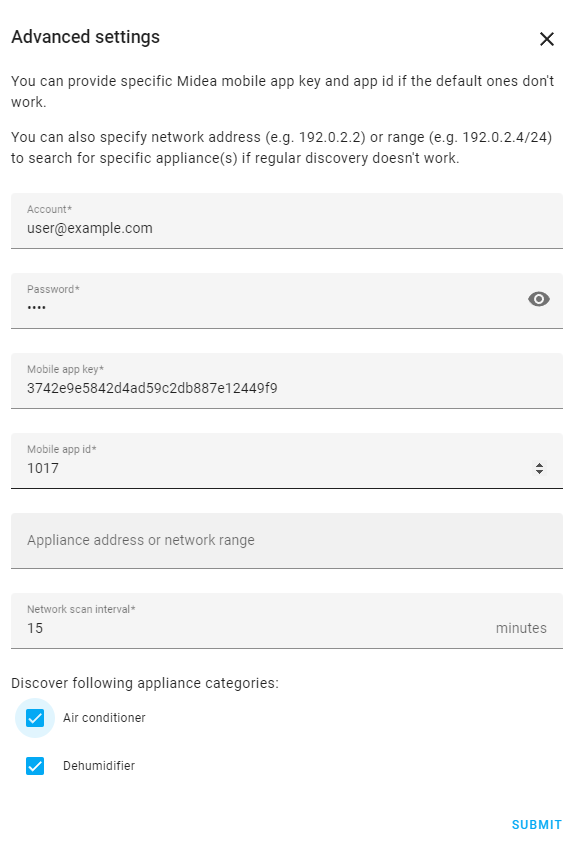
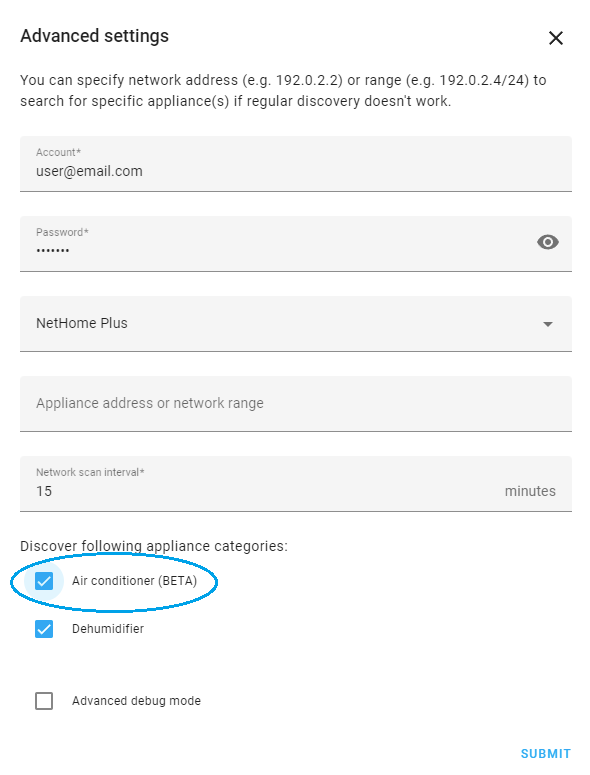
Remove APP ID and APP KEY from configuration. Use APP Name  only.

diff --git a/custom_components/midea_dehumidifier_lan/config_flow.py b/custom_components/midea_dehumidifier_lan/config_flow.py
@@ -43,22 +43,18 @@ from midea_beautiful.exceptions import (
 from midea_beautiful.lan import LanDevice
 from midea_beautiful.midea import (
     APPLIANCE_TYPE_DEHUMIDIFIER,
-    DEFAULT_APP_ID,
-    DEFAULT_APPKEY,
     SUPPORTED_APPS,
 )
 
 from custom_components.midea_dehumidifier_lan import Hub
 from custom_components.midea_dehumidifier_lan.const import (
     NAME,
+    CURRENT_CONFIG_VERSION,
     SUPPORTED_APPLIANCES,
     CONF_ADVANCED_SETTINGS,
-    CONF_APPID,
-    CONF_APPKEY,
     CONF_DEBUG,
     CONF_MOBILE_APP,
     CONF_TOKEN_KEY,
-    CURRENT_CONFIG_VERSION,
     DEFAULT_APP,
     DEFAULT_DISCOVERY_MODE,
     DEFAULT_PASSWORD,
@@ -118,8 +114,7 @@ def _appliance_schema(  # pylint: disable=too-many-arguments
 def _advanced_settings_schema(
     username: str = "",
     password: str = "",
-    appkey: str = "",
-    appid: int = None,
+    app: str = DEFAULT_APP,
     broadcast_address: str = "",
     appliances: list[str] = None,
     debug: bool = False,
@@ -129,8 +124,7 @@ def _advanced_settings_schema(
         {
             vol.Required(CONF_USERNAME, default=username): cv.string,
             vol.Required(CONF_PASSWORD, default=password): cv.string,
-            vol.Required(CONF_APPKEY, default=appkey): cv.string,
-            vol.Required(CONF_APPID, default=appid): cv.positive_int,
+            vol.Optional(CONF_MOBILE_APP, default=app): vol.In(SUPPORTED_APPS.keys()),
             vol.Optional(CONF_BROADCAST_ADDRESS, default=broadcast_address): cv.string,
             vol.Required(
                 CONF_SCAN_INTERVAL,
@@ -150,15 +144,11 @@ def _advanced_settings_schema(
 def _reauth_schema(
     username: str,
     password: str,
-    appkey: str,
-    appid: int,
 ) -> vol.Schema:
     return vol.Schema(
         {
             vol.Required(CONF_USERNAME, default=username): cv.string,
             vol.Required(CONF_PASSWORD, default=password): cv.string,
-            vol.Required(CONF_APPKEY, default=appkey): cv.string,
-            vol.Required(CONF_APPID, default=appid): cv.positive_int,
         }
     )
 
@@ -310,7 +300,6 @@ class _MideaFlow(FlowHandler):
 
         # Remove not used elements
         self.conf.pop(CONF_ADVANCED_SETTINGS, None)
-        self.conf.pop(CONF_MOBILE_APP, None)
         if self.config_entry:
             _LOGGER.debug("Updating configuration data %s", RedactedConf(self.conf))
             self.hass.config_entries.async_update_entry(
@@ -526,16 +515,14 @@ class MideaConfigFlow(ConfigFlow, _MideaFlow, domain=DOMAIN):
 
         if self.advanced_settings:
             assert self.conf is not None
-            self.conf[CONF_APPID] = user_input[CONF_APPID]
-            self.conf[CONF_APPKEY] = user_input[CONF_APPKEY]
+            self.conf[CONF_MOBILE_APP] = user_input.get(CONF_MOBILE_APP, DEFAULT_APP)
             self.conf[CONF_INCLUDE] = user_input[CONF_INCLUDE]
             self.conf[CONF_SCAN_INTERVAL] = user_input[CONF_SCAN_INTERVAL]
             self.conf[CONF_DEBUG] = user_input[CONF_DEBUG]
             self.conf[CONF_BROADCAST_ADDRESS] = _get_broadcast_addresses(user_input)
 
         else:
-            app = user_input.get(CONF_MOBILE_APP, DEFAULT_APP)
-            self.conf |= SUPPORTED_APPS.get(app, SUPPORTED_APPS[DEFAULT_APP])
+            self.conf[CONF_MOBILE_APP] = user_input.get(CONF_MOBILE_APP, DEFAULT_APP)
             if user_input.get(CONF_ADVANCED_SETTINGS):
                 return await self.async_step_advanced_settings()
 
@@ -614,8 +601,7 @@ class MideaConfigFlow(ConfigFlow, _MideaFlow, domain=DOMAIN):
         password = user_input.get(
             CONF_PASSWORD, self.conf.get(CONF_PASSWORD, DEFAULT_PASSWORD)
         )
-        appkey = user_input.get(CONF_APPKEY, DEFAULT_APPKEY)
-        appid = user_input.get(CONF_APPID, DEFAULT_APP_ID)
+        app = user_input.get(CONF_MOBILE_APP, DEFAULT_APP)
         broadcast_addresses = user_input.get(
             CONF_BROADCAST_ADDRESS, ",".join(self.conf.get(CONF_BROADCAST_ADDRESS, []))
         )
@@ -625,8 +611,7 @@ class MideaConfigFlow(ConfigFlow, _MideaFlow, domain=DOMAIN):
             data_schema=_advanced_settings_schema(
                 username=username,
                 password=password,
-                appkey=appkey,
-                appid=appid,
+                app=app,
                 broadcast_address=broadcast_addresses,
             ),
             description_placeholders=self._placeholders(),
@@ -661,14 +646,12 @@ class MideaConfigFlow(ConfigFlow, _MideaFlow, domain=DOMAIN):
         self.errors.clear()
         password = ""
         username = self.conf.get(CONF_USERNAME, "")
-        appkey = self.conf.get(CONF_APPKEY, DEFAULT_APPKEY)
-        appid = self.conf.get(CONF_APPID, DEFAULT_APP_ID)
+        app = self.conf.get(CONF_MOBILE_APP, DEFAULT_APP)
         if user_input is not None:
             extra_conf = {
                 CONF_USERNAME: user_input.get(CONF_USERNAME, ""),
                 CONF_PASSWORD: user_input.get(CONF_PASSWORD, ""),
-                CONF_APPKEY: user_input.get(CONF_APPKEY, appkey),
-                CONF_APPID: user_input.get(CONF_APPID, appid),
+                CONF_MOBILE_APP: user_input.get(CONF_MOBILE_APP, app),
             }
             try:
                 await self.hass.async_add_executor_job(
@@ -679,8 +662,7 @@ class MideaConfigFlow(ConfigFlow, _MideaFlow, domain=DOMAIN):
             else:
                 self.conf[CONF_USERNAME] = username
                 self.conf[CONF_PASSWORD] = password
-                self.conf[CONF_APPKEY] = appkey
-                self.conf[CONF_APPID] = appid
+                self.conf[CONF_MOBILE_APP] = app
                 return await self._async_add_entry()
 
         return self.async_show_form(
@@ -688,8 +670,6 @@ class MideaConfigFlow(ConfigFlow, _MideaFlow, domain=DOMAIN):
             data_schema=_reauth_schema(
                 username=username,
                 password=password,
-                appkey=appkey,
-                appid=appid,
             ),
             description_placeholders=self._placeholders(),
             errors=self.errors,

diff --git a/custom_components/midea_dehumidifier_lan/__init__.py b/custom_components/midea_dehumidifier_lan/__init__.py
@@ -29,14 +29,13 @@ from homeassistant.helpers.entity_registry import async_get_registry
 from midea_beautiful.cloud import MideaCloud
 from midea_beautiful.exceptions import MideaError
 from midea_beautiful.lan import LanDevice
-from midea_beautiful.midea import DEFAULT_APP_ID, DEFAULT_APPKEY
+from midea_beautiful.midea import SUPPORTED_APPS, DEFAULT_APP_ID, DEFAULT_APPKEY
 
 from custom_components.midea_dehumidifier_lan.const import (
-    CONF_APPID,
-    CONF_APPKEY,
+    CONF_MOBILE_APP,
     CONF_TOKEN_KEY,
     CONF_USE_CLOUD_OBSOLETE,
-    CURRENT_CONFIG_VERSION,
+    DEFAULT_APP,
     DEFAULT_TTL,
     DISCOVERY_CLOUD,
     DISCOVERY_IGNORE,
@@ -45,12 +44,14 @@ from custom_components.midea_dehumidifier_lan.const import (
     DOMAIN,
     LOCAL_BROADCAST,
     NAME,
+    CURRENT_CONFIG_VERSION,
+    OBSOLETE_CONF_APPID,
+    OBSOLETE_CONF_APPKEY,
     PLATFORMS,
     UNKNOWN_IP,
 )
 from custom_components.midea_dehumidifier_lan.hub import Hub
 from custom_components.midea_dehumidifier_lan.util import MideaClient, address_ok
-
 
 _LOGGER = logging.getLogger(__name__)
 
@@ -127,15 +128,28 @@ async def async_migrate_entry(hass: HomeAssistant, config_entry: ConfigEntry) ->
         if not old_broadcast:
             old_broadcast = [LOCAL_BROADCAST]
         new_conf = {
-            CONF_APPKEY: old_conf.get(CONF_APPKEY),
-            CONF_APPID: old_conf.get(CONF_APPID),
+            CONF_MOBILE_APP: old_conf.get(CONF_MOBILE_APP),
             CONF_BROADCAST_ADDRESS: old_broadcast,
             CONF_USERNAME: old_conf.get(CONF_USERNAME),
             CONF_PASSWORD: old_conf.get(CONF_PASSWORD),
         }
-        if not new_conf.get(CONF_APPID) or not new_conf.get(CONF_APPKEY):
-            new_conf[CONF_APPKEY] = DEFAULT_APPKEY
-            new_conf[CONF_APPID] = DEFAULT_APP_ID
+        if not old_conf.get(OBSOLETE_CONF_APPID) or not old_conf.get(
+            OBSOLETE_CONF_APPKEY
+        ):
+            new_conf[CONF_MOBILE_APP] = DEFAULT_APP
+        else:
+            appkey = old_conf.get(OBSOLETE_CONF_APPKEY, DEFAULT_APPKEY)
+            if appkey:
+                for appname, appconf in SUPPORTED_APPS.items():
+                    if appconf["appkey"] == appkey:
+                        new_conf[CONF_MOBILE_APP] = appname
+                        break
+            else:
+                appid = old_conf.get(OBSOLETE_CONF_APPID, DEFAULT_APP_ID)
+                for appname, appconf in SUPPORTED_APPS.items():
+                    if appconf["appid"] == appid:
+                        new_conf[CONF_MOBILE_APP] = appname
+                        break
 
         new_devices = []
         new_conf[CONF_DEVICES] = new_devices

diff --git a/custom_components/midea_dehumidifier_lan/const.py b/custom_components/midea_dehumidifier_lan/const.py
@@ -8,7 +8,7 @@ from homeassistant.const import Platform
 from midea_beautiful.midea import (
     APPLIANCE_TYPE_AIRCON,
     APPLIANCE_TYPE_DEHUMIDIFIER,
-    SUPPORTED_APPS,
+    DEFAULT_APP as DEFAULT_APP_FROM_LIB,
 )
 
 __version__ = "0.7.0"
@@ -23,8 +23,8 @@ DOMAIN: Final = f"{UNIQUE_DEHUMIDIFIER_PREFIX}lan"
 ISSUE_URL: Final = "https://github.com/nbogojevic/homeassistant-midea-air-appliances-lan/issues/new/choose"  # noqa: E501
 
 CONF_ADVANCED_SETTINGS: Final = "advanced_settings"
-CONF_APPID: Final = "appid"
-CONF_APPKEY: Final = "appkey"
+OBSOLETE_CONF_APPID: Final = "appid"
+OBSOLETE_CONF_APPKEY: Final = "appkey"
 CONF_DEBUG: Final = "debug"
 CONF_MOBILE_APP: Final = "mobile_app"
 CONF_TOKEN_KEY: Final = "token_key"
@@ -36,7 +36,7 @@ MIN_TARGET_HUMIDITY: Final = 35
 MAX_TARGET_TEMPERATURE: Final = 32
 MIN_TARGET_TEMPERATURE: Final = 16
 
-CURRENT_CONFIG_VERSION: Final = 2
+CURRENT_CONFIG_VERSION: Final = 3
 
 # Wait half a second between successive refresh calls
 APPLIANCE_REFRESH_COOLDOWN: Final = 0.5
@@ -72,7 +72,7 @@ DEFAULT_DISCOVERY_MODE = DISCOVERY_LAN
 
 DISCOVERY_BATCH_SIZE: Final = 64
 
-DEFAULT_APP: Final = next(app for app in SUPPORTED_APPS)
+DEFAULT_APP: Final = DEFAULT_APP_FROM_LIB
 
 DEFAULT_USERNAME: Final = ""
 DEFAULT_PASSWORD: Final = ""

diff --git a/custom_components/midea_dehumidifier_lan/util.py b/custom_components/midea_dehumidifier_lan/util.py
@@ -30,8 +30,7 @@ from midea_beautiful.util import very_verbose
 
 from custom_components.midea_dehumidifier_lan.const import (
     _ALWAYS_CREATE,
-    CONF_APPID,
-    CONF_APPKEY,
+    CONF_MOBILE_APP,
     CONF_TOKEN_KEY,
     UNKNOWN_IP,
 )
@@ -193,8 +192,7 @@ class MideaClient:
         return midea_beautiful_api.connect_to_cloud(
             account=conf[CONF_USERNAME],
             password=conf[CONF_PASSWORD],
-            appkey=conf[CONF_APPKEY],
-            appid=conf[CONF_APPID],
+            appname=conf[CONF_MOBILE_APP],
         )
 
     def appliance_state(  # pylint: disable=too-many-arguments,no-self-use

diff --git a/README.md b/README.md
@@ -25,7 +25,7 @@ Once the integration is installed, you can add it to the Home Assistant by going
 
 ### Configuring
 1. Add `Midea Air Appliances (LAN)` integration via UI.
-2. Enter Midea cloud username and password. Those are the same used in NetHome Plus mobile application.
+2. Enter Midea cloud username and password and select mobile application you use.
 3. The integration will discover appliance on local network(s).
 4. If an appliance is not automatically discovered, but is registered to the cloud account, user is prompted to enter IPv4 address of the appliance.
 5. If you want to use integration with air conditioner unit(s), please select the checkbox on `Advanced settings` page.
@@ -39,7 +39,8 @@ Once the integration is installed, you can add it to the Home Assistant by going
 * If you encounter issues after upgrading, uninstall the integration, restart Home Assistant and re-install it.
 * Some of sensors and switches are disabled by default. You need to enable them manually. See tables below for more information.
 * Temperature sensor on dehumidifier is often under-reporting real ambient temperature. This may be due to sensor proximity to cooling pipes of the humidifier, algorithm, or electronics error. The under-reporting depends on the active mode, and stronger modes may result in larger offset from real temperature.
-* Some Midea appliances, built in 2021 and later, use Tuya based patform and this integration will not work with them. In some cases those appliances have  have same model names as old ones.
+* Some Midea appliances, built in 2021 and later, use Tuya based patform and this integration will not work with them. In some cases those appliances have have same model names as old ones.
+* When migrating from version 0.6 or 0.7 to 0.8, integration may fail. Please remove and re-install integration.
 
 ## Supported appliances
 
@@ -109,8 +110,8 @@ On entry page, paste following content:
 ```yaml
 service: logger.set_level
 data:
-    custom_components.midea_dehumidifier_lan: debug
-    midea_beautiful: debug
+    custom_components.midea_dehumidifier_lan: DEBUG
+    midea_beautiful: DEBUG
 ```
 
 It is possible to activate debug logging on Home Assistent start. To do this, open Home Assistant's `configuration.yaml` file on your machine, and add following to `logger` configuration:

diff --git a/info.md b/info.md
@@ -12,6 +12,10 @@
 ## Breaking Changes
 - Unique id of entities changed. Using serial number now instead of cloud API id. Old entites are updated with new unique id.
 - Removed sleep switch.
+{% if (version_installed.split(".")[1] | int) < 8 %}
+- Removed application key from advanced settings page. Only application name is used for configuration.
+- When migrating from version 0.6 or 0.7 new configuration may fail. Please remove and re-install integration.
+{% endif %}
 
 ## Major changes
 - Added support for air conditioners (**beta**)
